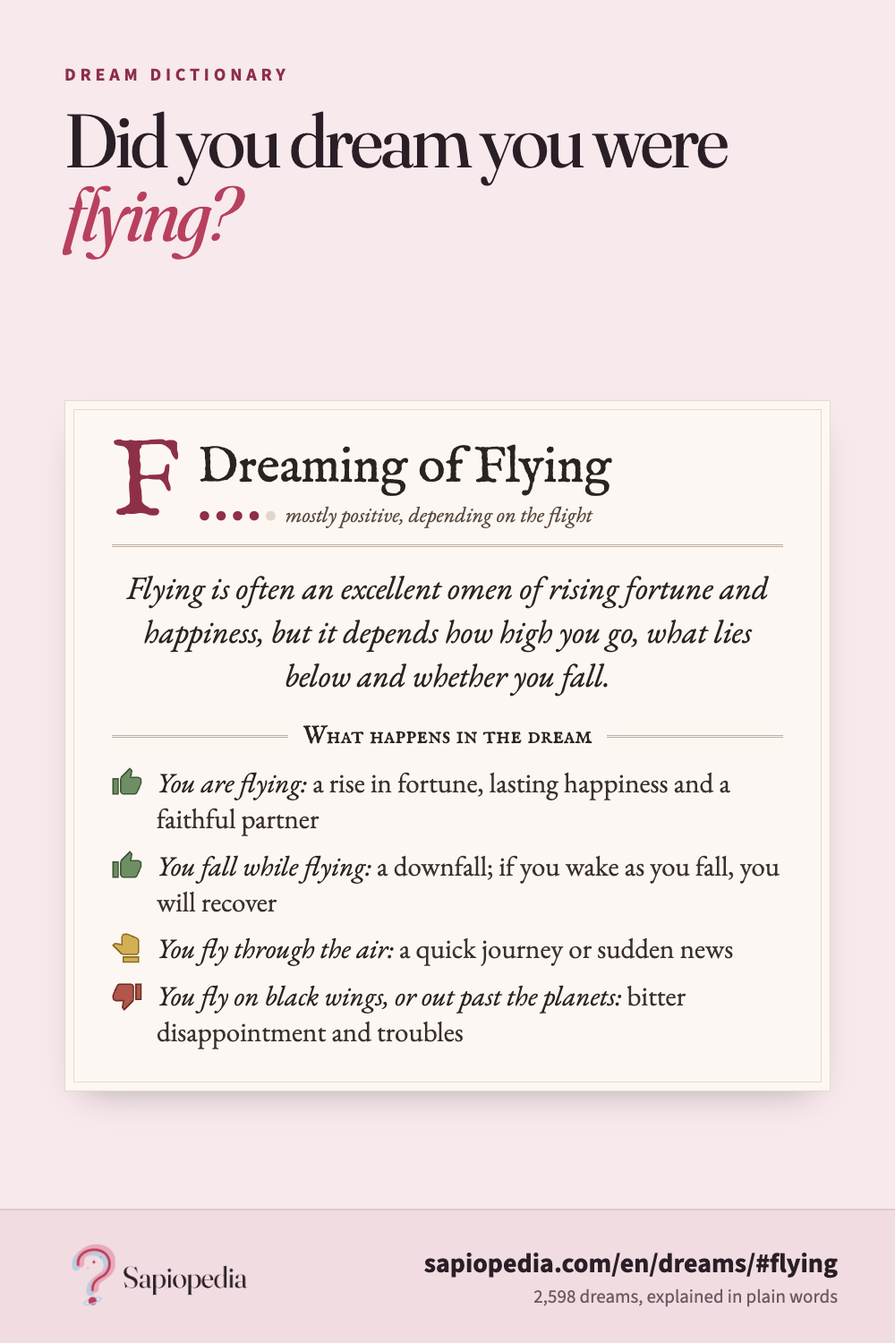
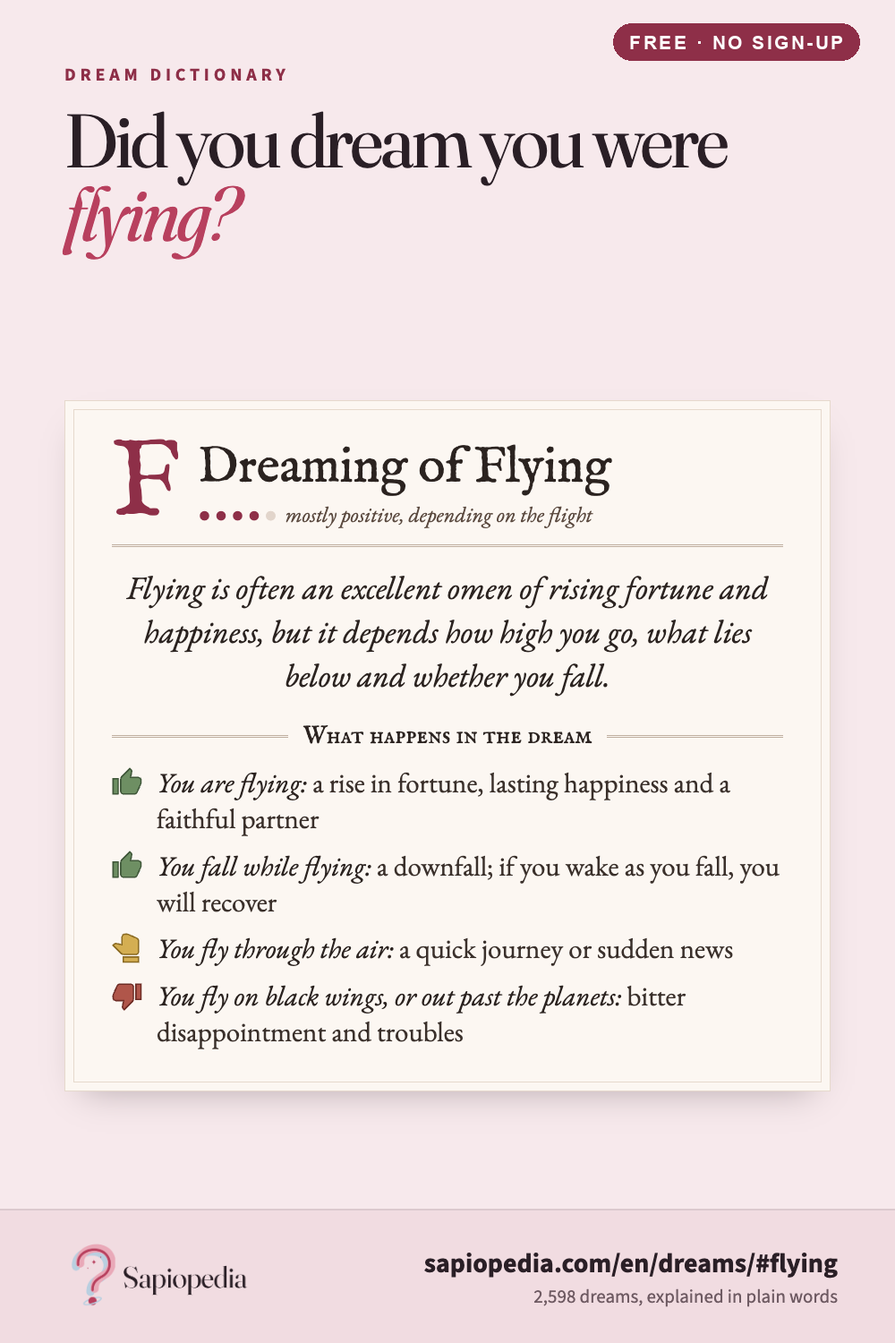
Pinterest batch: 78 new pin images (pins/b1/), badge on originals, pin generators

Changed region(s): [[0.682, 0.0, 0.961, 0.0613]]

diff --git a/tools/room-planner_pin_template.html b/tools/room-planner_pin_template.html
@@ -1,0 +1,48 @@
+<!doctype html><html><head><meta charset="utf-8">
+<link rel="stylesheet" href="https://fonts.googleapis.com/css2?family=Fraunces:ital,opsz,wght@0,9..144,300..700;1,9..144,300..700&family=Source+Sans+3:wght@400;600;700&family=EB+Garamond:ital,wght@0,400;0,600;1,400&family=IM+Fell+English:ital@0;1&family=IM+Fell+English+SC&family=Cormorant+Garamond:ital,wght@0,500;1,400&display=swap">
+<style>
+*{box-sizing:border-box}html,body{margin:0}
+body{width:1000px;height:1500px;overflow:hidden;background:#F7E9EC;color:#2A1F26;font-family:'Source Sans 3',sans-serif;position:relative}
+.pin{position:absolute;inset:0;display:flex;flex-direction:column}
+.top{padding:70px 72px 0;display:grid;gap:18px}
+.kick{font-size:20px;letter-spacing:.24em;text-transform:uppercase;font-weight:700;color:#8E2F48}
+h1{font-family:'Fraunces',Georgia,serif;font-weight:400;font-size:84px;line-height:.98;letter-spacing:-.035em;margin:0}
+h1 em{color:#B8405E}
+.sub{font-family:'Fraunces',Georgia,serif;font-weight:300;font-size:32px;line-height:1.3;color:#4A3C42;margin:0}
+.main{flex:1;padding:36px 72px 0;display:flex;flex-direction:column;justify-content:center;min-height:0}
+.band{height:150px;background:#F1DCE1;border-top:2px solid #DCC9CE;display:flex;align-items:center;justify-content:space-between;padding:0 64px}
+.band img{height:86px}
+.band .u{text-align:right}.band .u b{display:block;font-size:30px;font-weight:700;color:#2A1F26}.band .u span{font-size:21px;color:#6E5A62}
+/* old-book card (dreams) */
+.book{background:#FCF7F2;border:1px solid #E6D9CC;box-shadow:inset 0 0 0 9px #FCF7F2,inset 0 0 0 10px #E6D9CC,0 18px 40px -20px rgba(42,31,38,.35);padding:46px 52px;font-family:'EB Garamond',Georgia,serif;color:#2B2320}
+.book .lead{font-style:italic;font-size:31px;line-height:1.35;text-align:center;margin:0 0 26px}
+.book h3{font-family:'IM Fell English SC',Georgia,serif;font-weight:400;font-size:28px;display:flex;align-items:center;gap:16px;margin:0 0 14px}
+.book h3::before,.book h3::after{content:"";flex:1;border-top:3px double #BFAE9F}
+.book ul{list-style:none;margin:0;padding:0;display:grid;gap:12px}
+.book li{display:grid;grid-template-columns:40px 1fr;gap:6px;font-size:27px;line-height:1.3;color:#3A302B}
+.book li i{color:#2B2320}
+.th{width:30px;height:30px;margin-top:3px;stroke-width:1.1}
+.th.up{fill:#6E8F63;stroke:#3E5638}.th.mid{fill:#D4AE52;stroke:#8A6A22;transform:rotate(-90deg)}.th.down{fill:#B0564A;stroke:#6E2C25;transform:rotate(180deg)}
+.dots{color:#8E2F48;letter-spacing:4px}.dots s{text-decoration:none;color:#E2D5CB}
+.dtitle{display:grid;grid-template-columns:auto 1fr;gap:0 20px;align-items:center;margin-bottom:22px;border-bottom:3px double #BFAE9F;padding-bottom:18px}
+.dtitle .ini{font-family:'IM Fell English',serif;font-size:120px;line-height:.8;color:#8E2F48}
+.dtitle h2{font-family:'IM Fell English',serif;font-weight:400;font-size:56px;margin:0;line-height:1}
+.dtitle p{margin:8px 0 0;font-style:italic;font-size:24px;color:#5B4A40}
+/* name list */
+.names{columns:2;column-gap:40px;background:#FCF7F2;border:1px solid #E6D9CC;box-shadow:inset 0 0 0 9px #FCF7F2,inset 0 0 0 10px #E6D9CC;padding:44px 48px;font-family:'EB Garamond',serif}
+.names div{break-inside:avoid;padding:10px 0;border-bottom:1px dotted #BFAE9F}
+.names b{font-family:'IM Fell English',serif;font-weight:400;font-size:44px;color:#2B2320;display:block;line-height:1}
+.names span{font-size:23px;color:#5B4A40}
+.sym{font-size:32px;margin-left:8px;vertical-align:4px}
+/* question cards */
+.q{display:grid;gap:16px}
+.q div{background:#fff;border-radius:22px;padding:24px 30px;font-family:'Fraunces',serif;font-size:31px;line-height:1.25;box-shadow:0 6px 16px -10px rgba(42,31,38,.4)}
+.q small{display:block;font-family:'Source Sans 3',sans-serif;font-size:17px;letter-spacing:.2em;text-transform:uppercase;font-weight:700;margin-bottom:6px}
+.q .t small{color:#2E5F6E}.q .d small{color:#B8405E}
+.shot{border-radius:20px;overflow:hidden;box-shadow:0 24px 50px -24px rgba(42,31,38,.45);background:#fff}
+.shot img{display:block;width:100%}
+.chips{display:flex;flex-wrap:wrap;gap:12px;margin-top:26px}
+.chips span{background:#fff;border-radius:999px;padding:12px 22px;font-size:24px;font-weight:600;color:#8E2F48}
+</style></head><body><div class="pin"><div class="top"><div class="kick">{{KICK}}</div><h1>{{H1}}</h1><p class="sub">{{SUB}}</p></div><div class="main"><div class="shot" id="shot" style="padding:16px 8px;background:#FFF8F9"></div></div><div class="band"><img src="/assets/logo-horizontal.png" alt=""><div class="u"><b>{{URL}}</b><span>{{KICK}}</span></div></div></div><script>var ST={"rp-fr-0": {"shape": "sized", "room": [[124, 168], [516, 168], [516, 472], [124, 472]], "north": 0, "items": [{"id": 1, "k": "bed", "x": 300, "y": 200}, {"id": 2, "k": "desk", "x": 480, "y": 420}, {"id": 3, "k": "chair", "x": 445, "y": 420, "rot": 90}, {"id": 4, "k": "wardrobe", "x": 160, "y": 330, "rot": 270}, {"id": 5, "k": "plant", "x": 495, "y": 190}, {"id": 6, "k": "lamp", "x": 150, "y": 450}], "opens": [{"id": 11, "k": "door", "edge": 0, "t": 0.85}, {"id": 12, "k": "window", "edge": 1, "t": 0.45}], "next": 16, "v": 7, "look": {"floor": "walnut", "wall": "#D5DCCB", "rot": 0}}, "rp-en-1": {"shape": "sized", "room": [[124, 168], [516, 168], [516, 472], [124, 472]], "north": 0, "items": [{"id": 1, "k": "sofa", "x": 320, "y": 190}, {"id": 2, "k": "coffee", "x": 320, "y": 262}, {"id": 3, "k": "armchair", "x": 165, "y": 300, "rot": 270}, {"id": 4, "k": "tv", "x": 320, "y": 462, "rot": 180}, {"id": 5, "k": "shelf", "x": 495, "y": 330, "rot": 90}, {"id": 6, "k": "plant", "x": 145, "y": 190}, {"id": 7, "k": "lamp", "x": 495, "y": 190}], "opens": [{"id": 11, "k": "door", "edge": 3, "t": 0.2}, {"id": 12, "k": "window", "edge": 0, "t": 0.25}], "next": 16, "v": 7, "look": {"floor": "light", "wall": "#EBD3D6", "rot": 0}}};var V='{{VARIANT}}';localStorage.setItem("sapiopedia-roomplanner-1",JSON.stringify(ST[V]));localStorage.setItem("sapiopedia-roomplanner-view","3d");
+var f=document.createElement("iframe");f.style.cssText="position:absolute;left:-3000px;width:1100px;height:900px";f.src="{{TOOL}}";
+f.onload=function(){setTimeout(function(){var c=f.contentDocument.querySelector(".v3dwrap canvas");if(c){var i=new Image();i.src=c.toDataURL("image/png");i.style.cssText="width:100%;display:block";document.getElementById("shot").appendChild(i);}},4500);};document.body.appendChild(f);</script></body></html>

diff --git a/tools/fengshui_pin_template.html b/tools/fengshui_pin_template.html
@@ -1,0 +1,48 @@
+<!doctype html><html><head><meta charset="utf-8">
+<link rel="stylesheet" href="https://fonts.googleapis.com/css2?family=Fraunces:ital,opsz,wght@0,9..144,300..700;1,9..144,300..700&family=Source+Sans+3:wght@400;600;700&family=EB+Garamond:ital,wght@0,400;0,600;1,400&family=IM+Fell+English:ital@0;1&family=IM+Fell+English+SC&family=Cormorant+Garamond:ital,wght@0,500;1,400&display=swap">
+<style>
+*{box-sizing:border-box}html,body{margin:0}
+body{width:1000px;height:1500px;overflow:hidden;background:#F7E9EC;color:#2A1F26;font-family:'Source Sans 3',sans-serif;position:relative}
+.pin{position:absolute;inset:0;display:flex;flex-direction:column}
+.top{padding:70px 72px 0;display:grid;gap:18px}
+.kick{font-size:20px;letter-spacing:.24em;text-transform:uppercase;font-weight:700;color:#8E2F48}
+h1{font-family:'Fraunces',Georgia,serif;font-weight:400;font-size:84px;line-height:.98;letter-spacing:-.035em;margin:0}
+h1 em{color:#B8405E}
+.sub{font-family:'Fraunces',Georgia,serif;font-weight:300;font-size:32px;line-height:1.3;color:#4A3C42;margin:0}
+.main{flex:1;padding:36px 72px 0;display:flex;flex-direction:column;justify-content:center;min-height:0}
+.band{height:150px;background:#F1DCE1;border-top:2px solid #DCC9CE;display:flex;align-items:center;justify-content:space-between;padding:0 64px}
+.band img{height:86px}
+.band .u{text-align:right}.band .u b{display:block;font-size:30px;font-weight:700;color:#2A1F26}.band .u span{font-size:21px;color:#6E5A62}
+/* old-book card (dreams) */
+.book{background:#FCF7F2;border:1px solid #E6D9CC;box-shadow:inset 0 0 0 9px #FCF7F2,inset 0 0 0 10px #E6D9CC,0 18px 40px -20px rgba(42,31,38,.35);padding:46px 52px;font-family:'EB Garamond',Georgia,serif;color:#2B2320}
+.book .lead{font-style:italic;font-size:31px;line-height:1.35;text-align:center;margin:0 0 26px}
+.book h3{font-family:'IM Fell English SC',Georgia,serif;font-weight:400;font-size:28px;display:flex;align-items:center;gap:16px;margin:0 0 14px}
+.book h3::before,.book h3::after{content:"";flex:1;border-top:3px double #BFAE9F}
+.book ul{list-style:none;margin:0;padding:0;display:grid;gap:12px}
+.book li{display:grid;grid-template-columns:40px 1fr;gap:6px;font-size:27px;line-height:1.3;color:#3A302B}
+.book li i{color:#2B2320}
+.th{width:30px;height:30px;margin-top:3px;stroke-width:1.1}
+.th.up{fill:#6E8F63;stroke:#3E5638}.th.mid{fill:#D4AE52;stroke:#8A6A22;transform:rotate(-90deg)}.th.down{fill:#B0564A;stroke:#6E2C25;transform:rotate(180deg)}
+.dots{color:#8E2F48;letter-spacing:4px}.dots s{text-decoration:none;color:#E2D5CB}
+.dtitle{display:grid;grid-template-columns:auto 1fr;gap:0 20px;align-items:center;margin-bottom:22px;border-bottom:3px double #BFAE9F;padding-bottom:18px}
+.dtitle .ini{font-family:'IM Fell English',serif;font-size:120px;line-height:.8;color:#8E2F48}
+.dtitle h2{font-family:'IM Fell English',serif;font-weight:400;font-size:56px;margin:0;line-height:1}
+.dtitle p{margin:8px 0 0;font-style:italic;font-size:24px;color:#5B4A40}
+/* name list */
+.names{columns:2;column-gap:40px;background:#FCF7F2;border:1px solid #E6D9CC;box-shadow:inset 0 0 0 9px #FCF7F2,inset 0 0 0 10px #E6D9CC;padding:44px 48px;font-family:'EB Garamond',serif}
+.names div{break-inside:avoid;padding:10px 0;border-bottom:1px dotted #BFAE9F}
+.names b{font-family:'IM Fell English',serif;font-weight:400;font-size:44px;color:#2B2320;display:block;line-height:1}
+.names span{font-size:23px;color:#5B4A40}
+.sym{font-size:32px;margin-left:8px;vertical-align:4px}
+/* question cards */
+.q{display:grid;gap:16px}
+.q div{background:#fff;border-radius:22px;padding:24px 30px;font-family:'Fraunces',serif;font-size:31px;line-height:1.25;box-shadow:0 6px 16px -10px rgba(42,31,38,.4)}
+.q small{display:block;font-family:'Source Sans 3',sans-serif;font-size:17px;letter-spacing:.2em;text-transform:uppercase;font-weight:700;margin-bottom:6px}
+.q .t small{color:#2E5F6E}.q .d small{color:#B8405E}
+.shot{border-radius:20px;overflow:hidden;box-shadow:0 24px 50px -24px rgba(42,31,38,.45);background:#fff}
+.shot img{display:block;width:100%}
+.chips{display:flex;flex-wrap:wrap;gap:12px;margin-top:26px}
+.chips span{background:#fff;border-radius:999px;padding:12px 22px;font-size:24px;font-weight:600;color:#8E2F48}
+</style></head><body><div class="pin"><div class="top"><div class="kick">{{KICK}}</div><h1>{{H1}}</h1><p class="sub">{{SUB}}</p></div><div class="main"><div class="shot" id="shot" style="padding:16px 8px;background:#FFF8F9"></div></div><div class="band"><img src="/assets/logo-horizontal.png" alt=""><div class="u"><b>{{URL}}</b><span>{{KICK}}</span></div></div></div><script>var ST={"fs-fr-0": {"shape": "sized", "room": [[124, 168], [516, 168], [516, 472], [124, 472]], "north": 0, "items": [{"id": 1, "k": "bed", "x": 420, "y": 250}, {"id": 2, "k": "desk", "x": 180, "y": 440}, {"id": 3, "k": "plant", "x": 145, "y": 190}, {"id": 4, "k": "lamp", "x": 495, "y": 450}, {"id": 5, "k": "wardrobe", "x": 250, "y": 195}], "opens": [{"id": 11, "k": "door", "edge": 3, "t": 0.3}, {"id": 12, "k": "window", "edge": 1, "t": 0.25}], "next": 16, "v": 7}, "fs-en-1": {"shape": "sized", "room": [[150, 150], [490, 150], [490, 500], [150, 500]], "north": 0, "items": [{"id": 1, "k": "bed", "x": 320, "y": 420}, {"id": 2, "k": "shelf", "x": 170, "y": 260}, {"id": 3, "k": "armchair", "x": 440, "y": 200}], "opens": [{"id": 11, "k": "door", "edge": 0, "t": 0.5}, {"id": 12, "k": "window", "edge": 2, "t": 0.7}], "next": 16, "v": 7}};var V='{{VARIANT}}';localStorage.setItem("sapiopedia-fengshui-1",JSON.stringify(ST[V]));localStorage.setItem("sapiopedia-fengshui-view","2d");
+var f=document.createElement("iframe");f.style.cssText="position:absolute;left:-3000px;width:1100px;height:900px";f.src="{{TOOL}}";
+f.onload=function(){setTimeout(function(){var s=f.contentDocument.getElementById("plan").cloneNode(true);s.querySelectorAll("g[data-v],g[data-rot]").forEach(function(n){n.remove();});s.style.width="100%";s.style.height="auto";document.getElementById("shot").appendChild(s);},2500);};document.body.appendChild(f);</script></body></html>

diff --git a/tools/scratch_pin_template.html b/tools/scratch_pin_template.html
@@ -1,0 +1,29 @@
+<!doctype html><html><head><meta charset="utf-8">
+<link rel="stylesheet" href="https://fonts.googleapis.com/css2?family=Fraunces:ital,opsz,wght@0,9..144,300..600;1,9..144,300..600&family=Source+Sans+3:wght@400;600&display=swap">
+<style>*{box-sizing:border-box}html,body{margin:0}
+body{width:1000px;height:1500px;overflow:hidden;background:#F4E6E9;color:#2A1F26;font-family:'Source Sans 3',sans-serif;position:relative}
+h1{position:absolute;left:78px;right:78px;top:70px;margin:0;font-family:'Fraunces',Georgia,serif;font-weight:400;font-size:78px;line-height:1;letter-spacing:-.03em}
+h1 em{color:#A83A57}
+.phone{position:absolute;left:50%;top:330px;transform:translateX(-50%);width:452px;height:930px;border-radius:58px;background:#1f1a1c;padding:16px;box-shadow:0 30px 60px -30px rgba(42,31,38,.55)}
+.phone iframe{width:420px;height:898px;border:0;border-radius:44px;background:#F7E9EC;display:block}
+p{position:absolute;left:90px;right:90px;top:1292px;margin:0;font-size:30px;line-height:1.35;color:#4A3C42;text-align:center}
+.u{position:absolute;left:0;right:0;bottom:46px;text-align:center;font-size:24px;letter-spacing:.04em;color:#6E5A62}.u b{color:#2A1F26;font-weight:600}
+</style></head><body>
+<h1>{{H1}}</h1><div class="phone"><iframe id="f" src="{{URL}}"></iframe></div><p>{{P}}</p><div class="u"><b>sapiopedia.com</b> · {{FOOT}}</div>
+<script>
+var f=document.getElementById('f'), TARGET={{TARGET}};
+f.onload=function(){setTimeout(function(){
+  var d=f.contentDocument, c=d.getElementById('scratch'), r=c.getBoundingClientRect(), W=r.width, H=r.height, g=c.getContext('2d');
+  function ev(t,x,y){c.dispatchEvent(new PointerEvent(t,{clientX:r.left+x,clientY:r.top+y,pointerId:1,bubbles:true}));}
+  function stroke(pts){ev('pointerdown',pts[0][0],pts[0][1]);pts.forEach(function(p){ev('pointermove',p[0],p[1]);});ev('pointerup',pts[pts.length-1][0],pts[pts.length-1][1]);}
+  function scratched(){var px=g.getImageData(0,0,c.width,c.height).data,n=0,t=0;for(var i=3;i<px.length;i+=4*37){t++;if(px[i]<60)n++;}return n/t;}
+  var S=[function(){var a=[];for(var x=W*.12;x<W*.86;x+=4)a.push([x,H*.46+Math.sin(x/23)*9+Math.sin(x/7)*3+(x-W*.12)*.06]);return a;},
+    function(){var a=[];for(var x=W*.82;x>W*.22;x-=4)a.push([x,H*.60+Math.sin(x/19)*11-(W*.82-x)*.05]);return a;},
+    function(){var a=[];for(var x=W*.30;x<W*.70;x+=4)a.push([x,H*.33+Math.sin(x/17)*7]);return a;},
+    function(){var a=[];for(var x=W*.18;x<W*.62;x+=4)a.push([x,H*.72+Math.sin(x/21)*8]);return a;},
+    function(){var a=[];for(var x=W*.66;x>W*.28;x-=4)a.push([x,H*.22+Math.sin(x/15)*6+(W*.66-x)*.04]);return a;}];
+  for(var i=0;i<S.length;i++){ if(i>=3 && scratched()>=TARGET) break; stroke(S[i]()); if(TARGET && scratched()>.3) break; }
+  setTimeout(function(){d.getElementById('scratchCaption').classList.add('hidden');},50);
+  if(TARGET){var e=[];for(var x=W*.45;x<W*.55;x+=2)e.push([x,H*.46]);stroke(e);}
+},2800);};
+</script></body></html>

diff --git a/tools/pins_batch.py b/tools/pins_batch.py
@@ -1,0 +1,217 @@
+#!/usr/bin/env python3
+"""Pinterest batch: ~84 pins over 4 weeks following the posting plan.
+
+Weeks 1-2: 2 pins/day (1 seasonal + 1 evergreen); weeks 3-4: 4/day (2 + 2).
+Rules checked before writing: same link never twice the same day, >= 7 days between pins of the same page.
+Seasonal = Christmas framing of the scratch card and the party games. Evergreen = dreams, names, feng shui, room planner.
+Writes _pins_batch/<id>.html (rendered by Chrome), then Desktop/Sapiopedia/Pinterest/batch-2026-11/ + the bulk CSV.
+"""
+import csv, datetime, json, os, random, re, subprocess, base64, html
+
+ROOT = os.path.dirname(os.path.dirname(os.path.abspath(__file__)))
+DESK = os.path.expanduser("~/Desktop/Sapiopedia/Pinterest")
+OUTD = os.path.join(DESK, "batch-2026-11"); os.makedirs(OUTD, exist_ok=True)
+TMP = os.path.join(ROOT, "_pins_batch"); os.makedirs(TMP, exist_ok=True)
+GAMES = json.load(open(os.path.join(os.path.dirname(os.path.abspath(__file__)), "games.json"), encoding="utf-8"))
+src = open(os.path.join(ROOT, "tools", "make_pins.py"), encoding="utf-8").read()
+exec(src[:src.index("def band(")])            # HEAD (styles), THUMB, E (EN dreams), N (names), IDX, esc
+HEAD = HEAD.replace(".mid{flex:1;", ".main{flex:1;")
+EF = {e["id"]: e for e in json.load(open(os.path.join(ROOT, "data", "dreams_fr.json")))["entries"]}
+READY = json.load(open(os.path.join(ROOT, "data", "ready.json")))["batches"][0]
+random.seed(2026)
+SITE = "https://sapiopedia.com"
+
+def band(url, label):
+    return f'<div class="band"><img src="/assets/logo-horizontal.png" alt=""><div class="u"><b>{esc(url)}</b><span>{esc(label)}</span></div></div>'
+
+FREE_CSS = '<style>.free{position:absolute;top:26px;right:40px;z-index:5;background:#8E2F48;color:#fff;font:700 21px "Source Sans 3",sans-serif;letter-spacing:.12em;text-transform:uppercase;padding:9px 18px;border-radius:999px;box-shadow:0 4px 12px -4px rgba(42,31,38,.4)}</style>'
+def free(lang): return f'{FREE_CSS}<div class="free">{"Free · No sign-up" if lang == "en" else "Gratuit · Sans inscription"}</div>'
+def page(pid, kick, title, sub, mid, url, label, extra=""):
+    lang = "fr" if "/fr/" in url else "en"
+    open(os.path.join(TMP, pid + ".html"), "w", encoding="utf-8").write(
+        HEAD + THUMB + free(lang) + f'<div class="pin"><div class="top"><div class="kick">{kick}</div><h1>{title}</h1>{f"<p class=sub>{sub}</p>" if sub else ""}</div><div class="main">{mid}</div>{band(url, label)}</div>{extra}</body></html>')
+
+PINS = []   # dicts: id, group (seasonal/evergreen), link, title, desc, board, tags, render (fast/slow)
+def add(**k):
+    d = k.get("desc", ""); fr = "/fr/" in k.get("link", "")
+    if not re.search(r"no sign-up|sans inscription", d, re.I): d = d.rstrip() + (" Gratuit, sans inscription." if fr else " Free, no sign-up.")
+    k["desc"] = d[:500]; PINS.append(k)
+
+# ---------------------------------------------------------------- existing 12 pins (already on the site under /pins/)
+old = list(csv.DictReader(open(os.path.join(DESK, "pins.csv"), encoding="utf-8")))
+for r in old:
+    seasonal = r["file"].startswith(("09", "10"))
+    add(id=r["file"][:-4], file=r["file"], old=True, group="seasonal" if seasonal else "evergreen", link=r["link"], title=r["title"],
+        desc=r["description"], board=r["board"], tags=r["tags"].replace(";", ","))
+
+# ---------------------------------------------------------------- dreams (single entry pins, EN + FR)
+def dots(n): return "●" * n + f'<s>{"●" * (5 - n)}</s>'
+def dream_pin(pid, e, lang, h1):
+    sits = e["situations"]
+    pick = ([s for s in sits if s[2] == "up"][:2] + [s for s in sits if s[2] == "mid"][:1] + [s for s in sits if s[2] == "down"][:2])[:5]
+    lis = "".join(f'<li><svg class="th {s[2]}" viewBox="0 0 24 24"><use href="#th"/></svg><span><i>{esc(s[0])}:</i> {esc(s[1])}</span></li>' for s in pick)
+    lab = "What happens in the dream" if lang == "en" else "Ce qui se passe dans le rêve"
+    mid = (f'<div class="book"><div class="dtitle"><span class="ini">{esc(e["word"][0])}</span><div><h2>{esc(e["title"])}</h2><p><span class="dots">{dots(e["tone"])}</span> {esc(e["tone_label"])}</p></div></div>'
+           f'<p class="lead">{esc(e["one"])}</p><h3>{lab}</h3><ul>{lis}</ul></div>')
+    slug = "dreams" if lang == "en" else "reves"
+    page(pid, "Dream dictionary" if lang == "en" else "Dictionnaire des rêves", h1, "", mid, f"sapiopedia.com/{lang}/{slug}/{e['id']}/",
+         "2,598 dreams, explained in plain words" if lang == "en" else "2 598 rêves expliqués simplement")
+    return f"{SITE}/{lang}/{slug}/{e['id']}/"
+
+used_dreams = {"snake", "teeth", "flying"}
+for i, did in enumerate([d for d in READY["dreams_en"] if d not in used_dreams][:14]):
+    e = E[did]; w = re.sub(r"^Dreaming of ", "", e["title"]).lower()
+    h1 = [f"What does it mean to <em>dream of {esc(w)}?</em>", f"Dreaming of <em>{esc(w)}</em>: what it means", f"Did you dream of <em>{esc(w)}?</em>"][i % 3]
+    link = dream_pin(f"d-en-{did}", e, "en", h1)
+    add(id=f"d-en-{did}", group="evergreen", link=link, title=re.sub("<.*?>", "", h1).replace("&#x27;", "'"),
+        desc=f"{e['one']} Look up every version of the dream, good signs and bad, in Sapiopedia's dream dictionary.", board="Dream meanings",
+        tags=f"Dream meanings, Dream interpretation, {re.sub(r'^(an?|the) ', '', w).capitalize()} dream meaning, Dream dictionary, Spiritual meaning, Dreams, Symbolism, Self reflection")
+for i, did in enumerate(READY["dreams_fr"][:8]):
+    e = EF[did]; w = re.sub(r"^Rêver (d['’]une? |de la |du |des |de |d['’])", "", e["title"])
+    h1 = [f"Rêver <em>{esc(w)}</em> : que signifie ce rêve ?", f"Que veut dire <em>{esc(e['title'].lower())}</em> ?"][i % 2]
+    link = dream_pin(f"d-fr-{did}", e, "fr", h1)
+    add(id=f"d-fr-{did}", group="evergreen", link=link, title=re.sub("<.*?>", "", h1),
+        desc=f"{e['one']} Toutes les versions de ce rêve, bons et mauvais signes, dans le dictionnaire des rêves de Sapiopedia.", board="Dream meanings",
+        tags=f"Signification des rêves, Interprétation des rêves, Rêve {w}, Dictionnaire des rêves, Spiritualité, Rêves, Symbolisme")
+
+# ---------------------------------------------------------------- names (single card pins, link to the name's own page)
+SYMB = {"f": "♀", "m": "♂", "n": "⚥", "u": ""}
+GLAB = {"en": {"f": "French girl's name", "m": "French boy's name", "n": "French name for girls and boys", "u": "French first name"},
+        "fr": {"f": "Prénom féminin français", "m": "Prénom masculin français", "n": "Prénom mixte français", "u": "Prénom français"}}
+import sys; sys.path.insert(0, ROOT); from content.names_fr import card_slugs  # noqa: E402
+def name_pin(pid, name, lang):
+    r = N[name]; ids, _ = card_slugs()
+    base = "/en/names/french/" if lang == "en" else "/fr/prenoms/francais/"
+    ipa = re.sub(r"^\^\(\(.*?\)\)", "", r.get("ipa", ""))
+    rows = []
+    if r.get("oe" if lang == "en" else "o"): rows.append(("Origin" if lang == "en" else "Origine", (r["oe"] if lang == "en" else r["o"].capitalize())))
+    if r.get("att"): rows.append(("First recorded" if lang == "en" else "Première mention", r["att"].replace("c. ", "about " if lang == "en" else "vers ")))
+    if r.get("v"): rows.append(("Also spelled" if lang == "en" else "Autres graphies", ", ".join(r["v"][:5])))
+    if r.get("tr"): rows.append(("Around the world" if lang == "en" else "Ailleurs", " · ".join(f"{', '.join(v[:2])}" for k, v in list(r["tr"].items())[:4])))
+    et = r.get("ete") if lang == "en" else r.get("et")
+    mid = (f'<div class="book" style="padding:60px 60px"><div class="dtitle"><span class="ini" style="font-size:170px">{esc(name[0])}</span><div><h2 style="font-size:116px">{esc(name)}</h2>'
+           f'<p style="font-size:38px">{esc(ipa)} · <b style="font-style:normal;color:#8E2F48">{SYMB[r["g"]]}</b> {esc(GLAB[lang][r["g"]])}</p></div></div>'
+           + (f'<p class="lead" style="font-size:38px;margin:10px 0 34px">{esc(et[:230] + ("…" if len(et) > 230 else ""))}</p>' if et else "")
+           + '<ul style="gap:26px">' + "".join(f'<li style="grid-template-columns:300px 1fr;font-size:34px"><span style="font-family:IM Fell English SC,serif;color:#5B4A40">{esc(a)}</span><span>{esc(b)}</span></li>' for a, b in rows) + "</ul></div>")
+    url = f"{SITE}{base}{ids[name]}/"
+    page(pid, "French first names" if lang == "en" else "Prénoms français",
+         (f"<em>{esc(name)}</em>: meaning, origin and how to say it" if lang == "en" else f"<em>{esc(name)}</em> : origine, signification et prononciation"),
+         "", mid, url.replace("https://", ""), "9,128 French names with pronunciation" if lang == "en" else "9 128 prénoms avec leur prononciation")
+    return url
+nm = [n for n in READY["names"] if N.get(n, {}).get("ipa")]
+for i, name in enumerate(nm[:8]):
+    link = name_pin(f"n-en-{i}", name, "en")
+    add(id=f"n-en-{i}", group="evergreen", link=link, title=f"{name}: French name meaning, origin and pronunciation",
+        desc=f"{name} is a {GLAB['en'][N[name]['g']].lower()}. Its origin, how to say it the French way, and its versions in other languages.", board="French baby names",
+        tags=f"French baby names, {name} name meaning, Baby names, Baby name ideas, Name meanings, Unique baby names, Pregnancy, French aesthetic")
+for i, name in enumerate(nm[8:12]):
+    link = name_pin(f"n-fr-{i}", name, "fr")
+    add(id=f"n-fr-{i}", group="evergreen", link=link, title=f"{name} : origine, signification et prononciation du prénom",
+        desc=f"{name}, {GLAB['fr'][N[name]['g']].lower()} : son origine, sa prononciation et ses équivalents dans d'autres langues.", board="French baby names",
+        tags=f"Prénoms, Idées de prénoms, Prénom {name}, Signification des prénoms, Prénoms français, Grossesse, Bébé")
+
+# ---------------------------------------------------------------- party games, framed for Christmas gatherings
+GAME_H1 = {
+ "truth-or-dare-questions": (["<em>Truth or Dare</em> for your Christmas party", "Truth or Dare questions for <em>holiday game night</em>", "Clean <em>Truth or Dare</em> for the whole family"],
+                             ["<em>Action ou vérité</em> pour votre soirée de Noël", "Action ou vérité : des questions <em>pour les Fêtes</em>", "<em>Action ou vérité</em> tout public pour Noël"]),
+ "would-you-rather-questions": (["<em>Would You Rather</em> questions for Christmas dinner", "Would You Rather: <em>holiday edition night</em>", "<em>Would You Rather</em> for the family table"],
+                                ["<em>Tu préfères</em> : des questions pour le repas de Noël", "Des <em>Tu préfères</em> pour les soirées des Fêtes", "<em>Tu préfères</em> en famille à Noël"]),
+ "never-have-i-ever-questions": (["<em>Never Have I Ever</em> for your holiday party", "Never Have I Ever: <em>clean and funny</em>", "<em>Never Have I Ever</em> for Christmas night"],
+                                 ["<em>Je n'ai jamais</em> pour votre soirée des Fêtes", "Je n'ai jamais : <em>drôle et sans alcool</em>", "<em>Je n'ai jamais</em> pour le soir de Noël"]),
+ "icebreaker-questions-for-groups": (["Icebreakers for your <em>office Christmas party</em>", "Questions for the <em>family Christmas dinner</em>", "<em>Icebreakers</em> for holiday get-togethers"],
+                                     ["Brise-glace pour le <em>party de bureau</em>", "Des questions pour le <em>souper de Noël en famille</em>", "<em>Brise-glace</em> pour les réunions des Fêtes"]),
+ "two-truths-and-a-lie-ideas": (["<em>Two Truths and a Lie</em> for holiday parties", "Two Truths and a Lie: <em>ideas that work</em>", "A Christmas party game: <em>two truths, one lie</em>"],
+                                ["<em>Deux vérités, un mensonge</em> pour les Fêtes", "Deux vérités, un mensonge : <em>des idées qui marchent</em>", "Un jeu pour Noël : <em>deux vérités, un mensonge</em>"]),
+ "first-date-questions": (["Cosy <em>date night</em> questions for winter", "<em>First date</em> questions for the holidays", "Questions for a <em>holiday date</em>"],
+                          ["Questions pour un <em>tête-à-tête d'hiver</em>", "Des questions de <em>premier rendez-vous</em> pour les Fêtes", "Questions pour un <em>rendez-vous de décembre</em>"]),
+}
+def game_pin(pid, slug, lang, v):
+    g = GAMES[slug]; groups = g["groups"][lang]
+    gi = v % len(groups); head, items = groups[gi]
+    pick = random.sample(items, min(5, len(items)))
+    if slug == "truth-or-dare-questions":   # clean set only for Christmas pins: truths then dares
+        t = random.sample(groups[0][1], 3); d = random.sample(groups[2][1], 2)
+        cards = "".join(f'<div class="t"><small>{"Truth" if lang == "en" else "Vérité"}</small>{esc(x)}</div>' for x in t) + "".join(f'<div class="d"><small>{"Dare" if lang == "en" else "Action"}</small>{esc(x)}</div>' for x in d)
+    else:
+        cards = "".join(f'<div class="t"><small>{esc(head)}</small>{esc(x)}</div>' for x in pick)
+    h1 = GAME_H1[slug][0 if lang == "en" else 1][v % 3]
+    base = f"/en/games/{slug}/" if lang == "en" else f"/fr/jeux/{g['slug']['fr']}/"
+    page(pid, "Christmas party games" if lang == "en" else "Jeux pour les Fêtes", h1, "Draw one at random on your phone." if lang == "en" else "Tirez-en une au hasard sur votre téléphone.",
+         f'<div class="q">{cards}</div>', f"sapiopedia.com{base}", g["title"][lang])
+    return f"{SITE}{base}", re.sub("<.*?>", "", h1), g["title"][lang]
+for slug in GAMES:
+    for lang, n in (("en", 3), ("fr", 3)):
+        for v in range(n):
+            if slug == "truth-or-dare-questions" and lang == "en" and v == 0: continue   # the existing pin 10 covers this one
+            pid = f"g-{lang}-{slug[:12]}-{v}"
+            link, title, gname = game_pin(pid, slug, lang, v)
+            add(id=pid, group="seasonal", link=link, title=title,
+                desc=(f"{gname}: real questions you can draw at random on your phone. Perfect for Christmas dinners, holiday parties and game nights. Free." if lang == "en"
+                      else f"{gname} : des questions à tirer au hasard sur votre téléphone. Parfait pour les repas de Noël et les soirées des Fêtes. Gratuit."),
+                board="Christmas party games", tags=("Christmas party games, Christmas games, Holiday party ideas, Family game night, Party games for adults, Game night ideas, Christmas activities, Fun questions" if lang == "en"
+                      else "Jeux de Noël, Jeux de société, Soirée entre amis, Jeux en famille, Idées soirée, Noël, Jeux pour adultes"))
+
+# ---------------------------------------------------------------- scratch card, Christmas (real tool on a phone, falling snow)
+def b64(d): return base64.urlsafe_b64encode(json.dumps(d, ensure_ascii=False).encode()).decode().rstrip("=")
+XMAS = [
+ ("en", {"recipient": "Mia", "gift": "Ice skating, then hot chocolate", "message": "Saturday, 3 pm. Bring mittens.", "sender": "Leo", "fx": "snow"}, "A Christmas gift they <em>scratch to open</em>", "Perfect for virtual gifts: write it, send the link, let it snow."),
+ ("fr", {"recipient": "Chloé", "gift": "Un week-end au chalet", "message": "Feu de foyer, chocolat chaud et zéro réveil.", "sender": "Thomas", "fx": "snow"}, "Un cadeau de Noël <em>à gratter</em>", "Écrivez la surprise, envoyez le lien, et la neige tombe."),
+ ("fr", {"recipient": "Maman", "gift": "Une journée au spa", "message": "Pour toi, parce que tu le mérites.", "sender": "Julie", "fx": "hearts"}, "Le cadeau virtuel <em>parfait pour Noël</em>", "Carte à gratter envoyée par lien. Gratuit, sans appli."),
+ ("fr", {"recipient": "Lucas", "gift": "Deux billets pour le match", "message": "On y va ensemble le 27.", "sender": "Ton frère", "fx": "confetti"}, "Noël à distance ? <em>Envoyez une carte à gratter</em>", "Elle se gratte sur le téléphone, avec confettis, cœurs ou neige."),
+ ("fr", {"recipient": "Inès", "gift": "Un cours de poterie", "message": "Le 10 janvier, on y va ensemble.", "sender": "Sarah", "fx": "snow"}, "Une surprise de Noël <em>en un seul lien</em>", "Prête en une minute. Parfait pour les cadeaux de dernière minute."),
+]
+PHONE = (open(os.path.join(os.path.dirname(os.path.abspath(__file__)), "scratch_pin_template.html"), encoding="utf-8").read())
+for i, (lang, gift, h1, sub) in enumerate(XMAS):
+    base = "/en/tools/scratch-gift-card/" if lang == "en" else "/fr/outils/carte-cadeau-a-gratter/"
+    pid = f"s-{lang}-xmas-{i}"
+    html_ = PHONE.replace("{{H1}}", h1).replace("{{P}}", sub).replace("{{URL}}", base + "#gift=" + b64(gift)).replace("{{TARGET}}", "0.25").replace("{{FOOT}}", "scratch-off gift card" if lang == "en" else "carte cadeau à gratter")
+    html_ = html_.replace("<body>", "<body>" + free(lang), 1)
+    open(os.path.join(TMP, pid + ".html"), "w", encoding="utf-8").write(html_)
+    add(id=pid, group="seasonal", link=SITE + base, title=re.sub("<.*?>", "", h1), slow=True,
+        desc=("A scratch-off Christmas card you send as a link: they scratch on their phone and the gift appears under falling snow. Perfect for virtual gifts and long-distance Christmas. Free." if lang == "en"
+              else "Une carte de Noël à gratter, envoyée par lien : on gratte sur son téléphone et le cadeau apparaît. Idéal pour les cadeaux virtuels et Noël à distance. Gratuit."),
+        board="Christmas gift ideas", tags=("Christmas gift ideas, Virtual gift ideas, Digital gift, Scratch off card, Long distance Christmas, Last minute gifts, Gift card ideas, Christmas surprise" if lang == "en"
+              else "Idées cadeaux Noël, Cadeau virtuel, Carte à gratter, Cadeau de dernière minute, Noël à distance, Idée cadeau, Surprise"))
+
+# ---------------------------------------------------------------- feng shui and room planner variants (FR pages + a second EN angle)
+for pid, lang, kind, h1, sub in [("fs-fr-0", "fr", "fengshui", "Votre lit est-il <em>bien placé ?</em>", "Dessinez votre chambre : chaque meuble reçoit un verdict feng shui."),
+                                 ("fs-en-1", "en", "fengshui", "3 bed placement <em>mistakes to avoid</em>", "Feet toward the door, under a window, between door and window: check yours."),
+                                 ("rp-fr-0", "fr", "room-planner", "Aménagez votre pièce, <em>puis voyez-la en 3D</em>", "Tailles exactes, vrais meubles, vos couleurs de sol et de murs."),
+                                 ("rp-en-1", "en", "room-planner", "Try your <em>sofa layout</em> before you move it", "Exact sizes, clearance check, then a 3D view in your colours.")]:
+    tool = "fengshui" if kind == "fengshui" else ("room-planner" if lang == "en" else "planificateur-de-piece")
+    base = f"/{lang}/{'tools' if lang == 'en' else 'outils'}/{tool}/"
+    html_ = open(os.path.join(os.path.dirname(os.path.abspath(__file__)), f"{kind}_pin_template.html"), encoding="utf-8").read()
+    html_ = html_.replace("{{H1}}", h1).replace("{{SUB}}", sub).replace("{{TOOL}}", base).replace("{{URL}}", "sapiopedia.com" + base).replace("{{KICK}}", ("Feng shui room planner" if kind == "fengshui" else "Free room planner") if lang == "en" else ("Planificateur feng shui" if kind == "fengshui" else "Planificateur de pièce gratuit"))
+    html_ = html_.replace("{{VARIANT}}", pid)
+    html_ = html_.replace('<div class="pin">', free(lang) + '<div class="pin">', 1)
+    open(os.path.join(TMP, pid + ".html"), "w", encoding="utf-8").write(html_)
+    add(id=pid, group="evergreen", link=SITE + base, title=re.sub("<.*?>", "", h1), slow=True,
+        desc=(sub + " Free, in your browser." if lang == "en" else sub + " Gratuit, dans votre navigateur."),
+        board="Feng shui bedroom" if kind == "fengshui" else "Room layout ideas",
+        tags=("Feng shui bedroom, Bed placement, Bedroom layout, Feng shui tips, Bedroom ideas, Interior design" if kind == "fengshui" else "Room layout, Room planner, Living room layout, Furniture arrangement, Interior design, Floor plan")
+        if lang == "en" else ("Feng shui chambre, Aménagement chambre, Déco chambre, Feng shui, Disposition du lit" if kind == "fengshui" else "Aménagement salon, Plan de pièce, Déco intérieur, Disposition des meubles"))
+
+# ---------------------------------------------------------------- schedule: 28 days from Tue 10 Nov 2026
+start = datetime.date(2026, 11, 10)
+plan = [(start + datetime.timedelta(d), (["12:00:00"], ["19:00:00"]) if d < 14 else (["09:00:00", "16:00:00"], ["12:00:00", "20:00:00"])) for d in range(28)]
+last = {}; queue = {"seasonal": [p for p in PINS if p["group"] == "seasonal"], "evergreen": [p for p in PINS if p["group"] == "evergreen"]}
+for q in queue.values():                      # interleave so pins for the same page are far apart
+    q.sort(key=lambda p: (0 if p.get("old") else 1, random.random()))
+sched = []
+for day, (s_times, e_times) in plan:
+    today_links = set()
+    for grp, times in (("seasonal", s_times), ("evergreen", e_times)):
+        for tm in times:
+            pick = next((p for p in queue[grp] if p["link"] not in today_links and (p["link"] not in last or (day - last[p["link"]]).days >= 7)), None)
+            if not pick: continue
+            queue[grp].remove(pick); today_links.add(pick["link"]); last[pick["link"]] = day
+            sched.append((f"{day.isoformat()}T{tm}", pick))
+sched.sort(key=lambda x: x[0])
+# ---- checks
+by_link = {}
+for when, p in sched: by_link.setdefault(p["link"], []).append(datetime.date.fromisoformat(when[:10]))
+bad = [(l, d) for l, d in by_link.items() if any((b - a).days < 7 for a, b in zip(sorted(d), sorted(d)[1:]))]
+perday = {}
+for when, p in sched: perday[when[:10]] = perday.get(when[:10], 0) + 1
+print(f"{len(PINS)} pins prepared, {len(sched)} scheduled; per day: {sorted(set(perday.values()))}; spacing violations: {len(bad)}; unscheduled: {[p['id'] for q in queue.values() for p in q]}")
+json.dump([{"when": w, **{k: v for k, v in p.items()}} for w, p in sched], open(os.path.join(TMP, "schedule.json"), "w"), ensure_ascii=False, indent=0)
